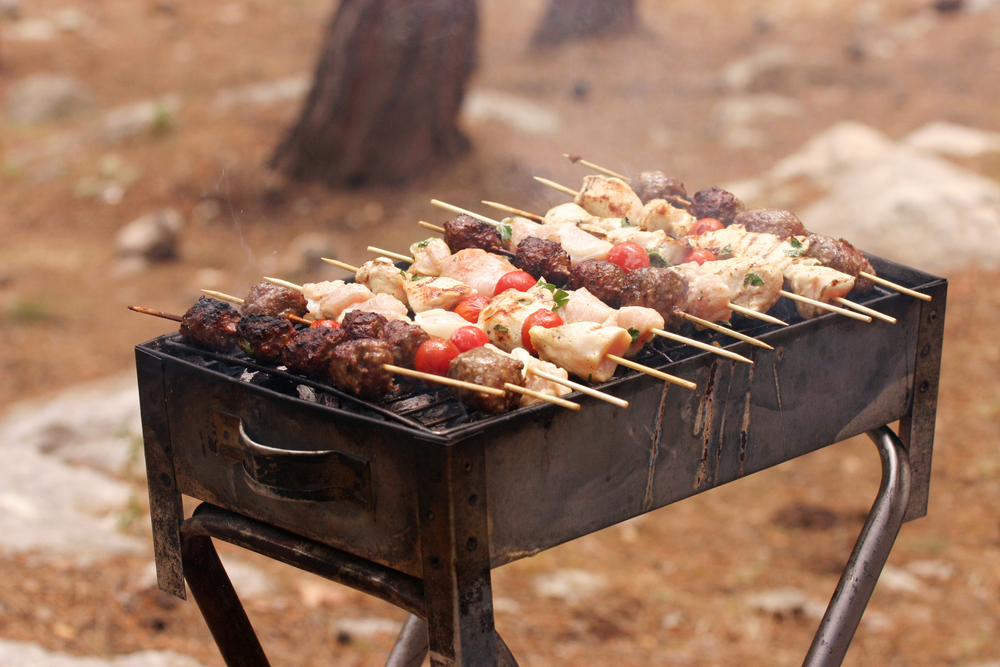
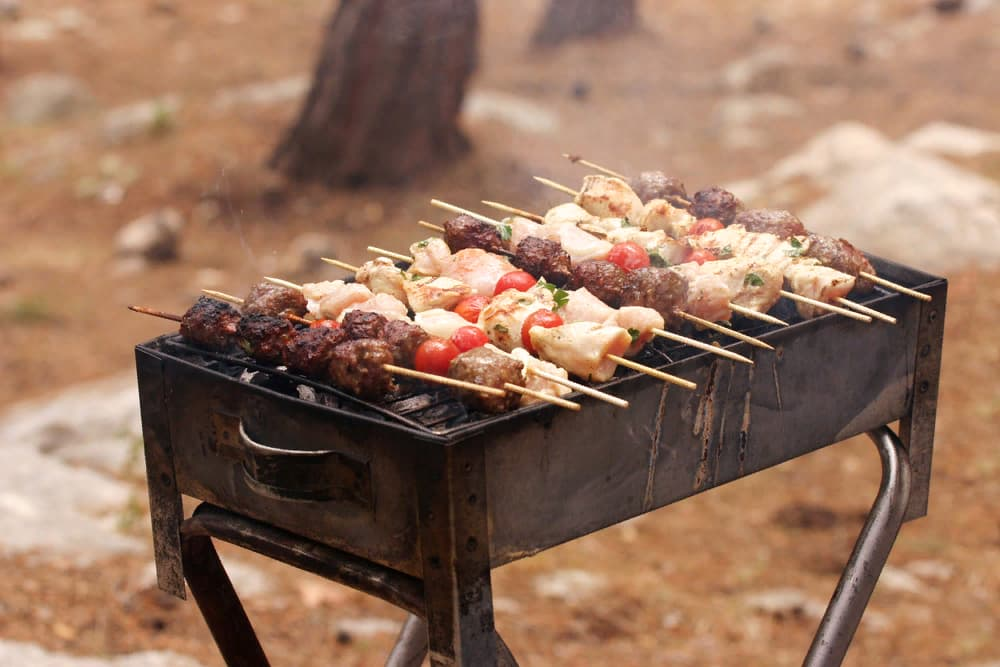
fix style with background image, fix menu, sqoosh jpgs

diff --git a/app/frontend/stylesheets/application.css b/app/frontend/stylesheets/application.css
@@ -1,0 +1,46 @@
+
+(с) goodprogrammer.ru
+
+Наши дополнительные стили для оформления отступов и тамбинашек картинок
+ */
+
+/* Buffers */
+.buffer-top {
+  margin-top: 20px;
+}
+
+.buffer-bottom {
+  margin-bottom: 20px;
+}
+
+.buffer-both {
+  margin-top: 20px;
+  margin-bottom: 20px;
+}
+
+/* Avatars for users & events */
+.img-icon, .img-icon-small {
+  height: 50px;
+  width: auto;
+  border-radius: 50%;
+}
+
+/* Thumbnails for events/index */
+.thumbnail {
+  position: relative;
+  background: transparent;
+  padding: 0;
+  overflow: hidden;
+  border-radius: 5px;
+}
+
+.thumbnail h3 {
+  white-space: nowrap;
+  overflow: hidden;
+  margin-top: 0;
+  margin-bottom: .3em;
+}
+
+.thumbnail-inner {
+  padding: 20px 4px 4px;
+}

diff --git a/app/frontend/packs/application.js b/app/frontend/packs/application.js
@@ -19,8 +19,6 @@ import '../stylesheets/application'
 // them with the image_pack_tag helper in views (e.g <%= image_pack_tag 'rails.png' %>)
 // or the `imagePath` JavaScript helper below.
 //
-// const images = require.context('../images', true)
-// const imagePath = (name) => images(name, true)
 
 const images = require.context('../images', true)
-const imagePath = (name) => images(name, true)
+// const imagePath = (name) => images(name, true)

diff --git a/app/frontend/stylesheets/events.css b/app/frontend/stylesheets/events.css
@@ -20,6 +20,8 @@
 
   background-size: cover;
   background-position: center;
+  background-image: url("~images/event_thumb.jpg");
+
 
   filter: blur(5px);
   -webkit-filter: blur(5px);

diff --git a/app/frontend/stylesheets/application.scss b/app/frontend/stylesheets/application.scss
@@ -1,4 +1,5 @@
 // app/javascript/stylesheets/application.scss
 
-@import "./events.css";
 @import 'bootstrap/scss/bootstrap';
+@import "./events.css";
+@import "./application.css";

diff --git a/app/controllers/events_controller.rb b/app/controllers/events_controller.rb
@@ -1,7 +1,7 @@
 class EventsController < ApplicationController
-  before_action :authenticate_user!, except: [:show, :index]
+  before_action :authenticate_user!, except: %i[show index]
   before_action :load_event, only: %i[show edit update destroy]
-  before_action :set_current_user_event, only: [:edit, :update, :destroy]
+  before_action :set_current_user_event, only: %i[edit update destroy]
 
   def index
     @events = Event.all

diff --git a/config/environments/production.rb b/config/environments/production.rb
@@ -28,7 +28,6 @@ Rails.application.configure do
   # Do not fallback to assets pipeline if a precompiled asset is missed.
   # config.assets.compile = false
 
-
   # Enable serving of images, stylesheets, and JavaScripts from an asset server.
   # config.action_controller.asset_host = 'http://assets.example.com'
 

diff --git a/config/routes.rb b/config/routes.rb
@@ -4,5 +4,4 @@ Rails.application.routes.draw do
   resources :users, only: %i[show edit update]
 
   root to: 'events#index'
-
 end

diff --git a/app/helpers/application_helper.rb b/app/helpers/application_helper.rb
@@ -1,5 +1,5 @@
 module ApplicationHelper
-  def user_avatar(user)
+  def user_avatar(_user)
     'user.png'
   end
 end
